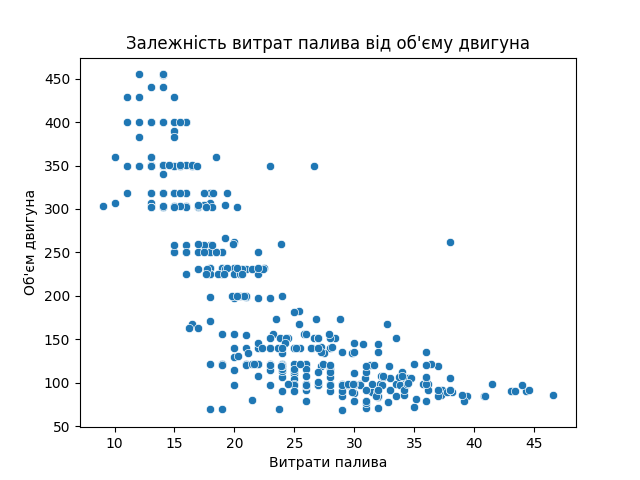
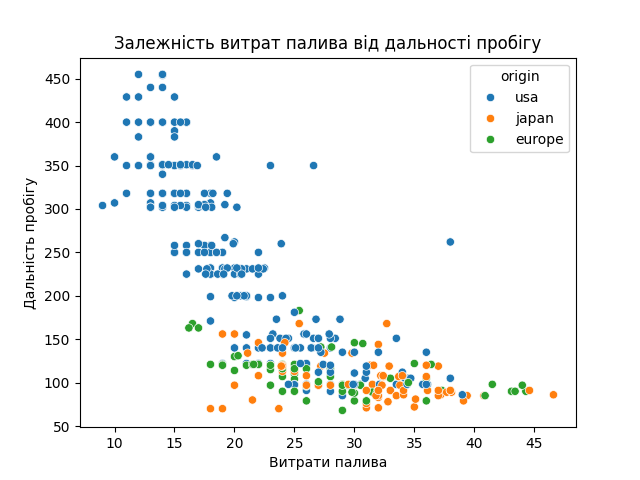
seaborn point-plot

diff --git a/visualization/seaborn/displacement_and_mpg.py b/visualization/seaborn/displacement_and_mpg.py
@@ -3,12 +3,12 @@ import matplotlib.pyplot as plt
 
 data = sns.load_dataset("mpg")  # это просто берем с интернета
 
-sns.scatterplot(x='mpg', y='displacement', data=data)
+sns.scatterplot(x='mpg', y='displacement', data=data, hue="origin")
 
 
 
 plt.xlabel("Витрати палива")
-plt.ylabel("Об'єм двигуна")
-plt.title("Залежність витрат палива від об'єму двигуна")
+plt.ylabel("Дальність пробігу")
+plt.title("Залежність витрат палива від дальності пробігу")
 
 plt.show()

diff --git a/readme.md b/readme.md
@@ -4,3 +4,7 @@
 Моя перша діаграма стопвчиком 
 ![Логотип](visualization/pie_grama.png)  
 Моя перша кругова діаграма
+![Логотип](visualization/auto.png)  
+Графік лінійний №2
+![Логотип](visualization/point_plot.png)
+Точковий графік залежності дальності пробігу автомобіля від витрат палива 
